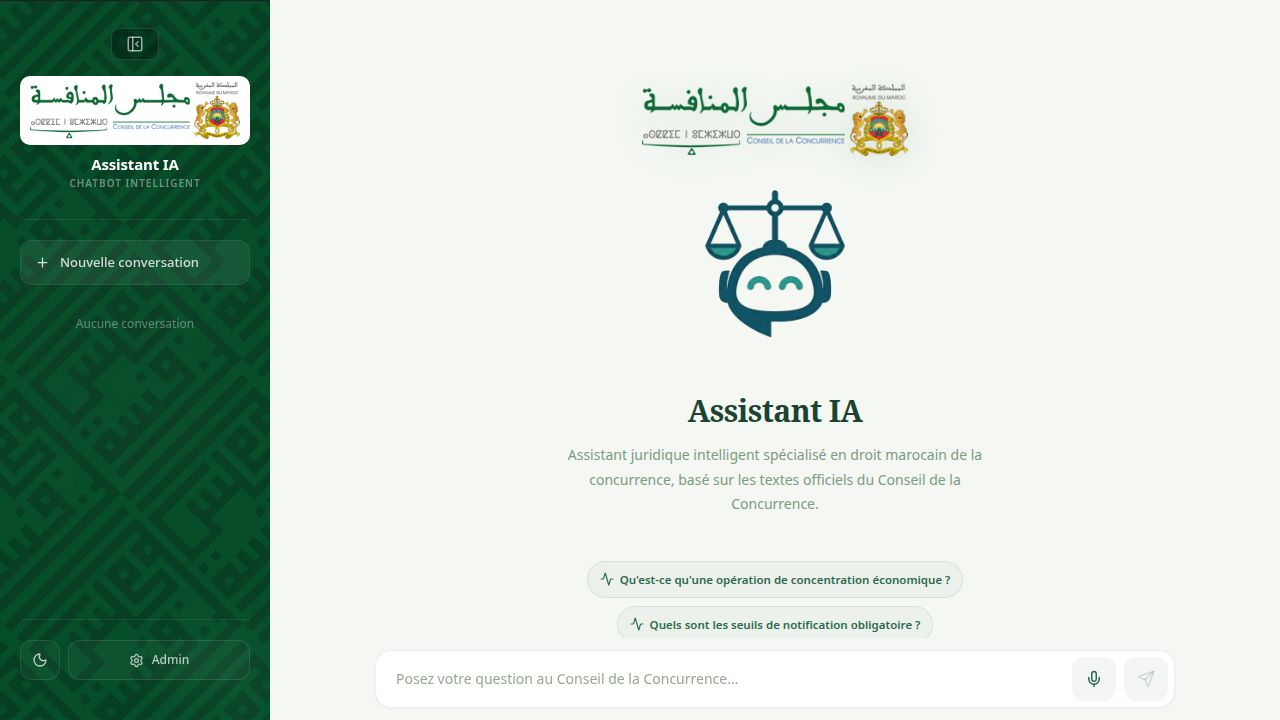
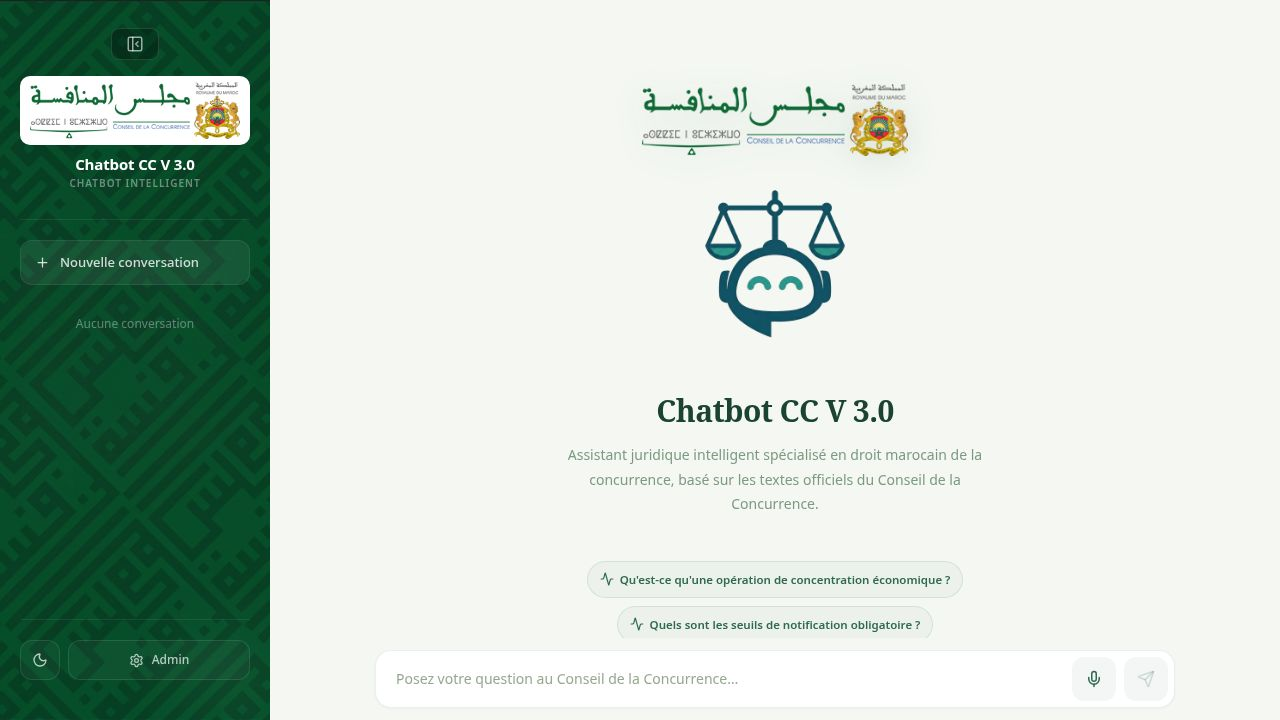
Update chatbot interface by relocating admin button and removing status indicator
Relocate the admin button from the sidebar to the header and remove the "Claude actif" status pill from the chat interface.

Replit-Commit-Author: Agent
Replit-Commit-Session-Id: a7ea8009-6826-4fa2-baa4-c8d859e869b2
Replit-Commit-Checkpoint-Type: full_checkpoint
Replit-Commit-Event-Id: 6403b163-6e91-4ead-8939-f49acbe728f9
Replit-Commit-Screenshot-Url: https://storage.googleapis.com/screenshot-production-us-central1/10934ac9-e4fa-4e64-9bf3-38a1fecc5e4e/a7ea8009-6826-4fa2-baa4-c8d859e869b2/MVCIsst
Replit-Helium-Checkpoint-Created: true

Changed region(s): [[0.5, 0.55, 0.7188, 0.6111], [0.0625, 0.2139, 0.1562, 0.2444]]

diff --git a/artifacts/conseil-chatbot/src/App.tsx b/artifacts/conseil-chatbot/src/App.tsx
@@ -660,15 +660,6 @@ function ChatPage({
             >
               {theme === "dark" ? <Sun size={16} /> : <Moon size={16} />}
             </button>
-            <button
-              className="sidebar-action"
-              onClick={onAdmin}
-              title="Administration"
-              style={{ flex: 1, width: "auto", justifyContent: "center", gap: "8px", fontSize: "12px", color: "rgba(255,255,255,0.7)", borderRadius: "12px" }}
-            >
-              <Settings size={15} />
-              <span style={{ fontWeight: 500 }}>Admin</span>
-            </button>
           </div>
         </div>
       </aside>
@@ -699,13 +690,17 @@ function ChatPage({
               </div>
             </div>
             <div className="topbar-actions">
-              <div className="status-pill" aria-label="Système actif">
-                <span className="status-dot" />
-                Claude actif
-              </div>
               <div className="header-badge">
                 {questionCount} question{questionCount !== 1 ? "s" : ""}
               </div>
+              <button
+                className="header-admin-btn"
+                onClick={onAdmin}
+                title="Administration"
+                aria-label="Administration"
+              >
+                <Settings size={16} />
+              </button>
             </div>
           </header>
         )}

diff --git a/artifacts/conseil-chatbot/src/index.css b/artifacts/conseil-chatbot/src/index.css
@@ -587,6 +587,23 @@ button.header-home-btn { cursor: pointer; transition: all 0.2s ease; padding: 0;
   letter-spacing: 0.02em;
 }
 
+.header-admin-btn {
+  display: inline-flex;
+  align-items: center;
+  justify-content: center;
+  width: 34px;
+  height: 34px;
+  border-radius: 10px;
+  border: none;
+  background: rgba(45,106,79,0.08);
+  color: var(--green-700);
+  cursor: pointer;
+  transition: background var(--transition-fast), color var(--transition-fast);
+}
+.header-admin-btn:hover { background: rgba(45,106,79,0.16); color: var(--green-800); }
+[data-theme="dark"] .header-admin-btn { background: rgba(82,183,136,0.1); color: #5BBFEF; }
+[data-theme="dark"] .header-admin-btn:hover { background: rgba(82,183,136,0.2); }
+
 /* ═══════════════════════════════════════════
    CHAT MESSAGES
    ═══════════════════════════════════════════ */
